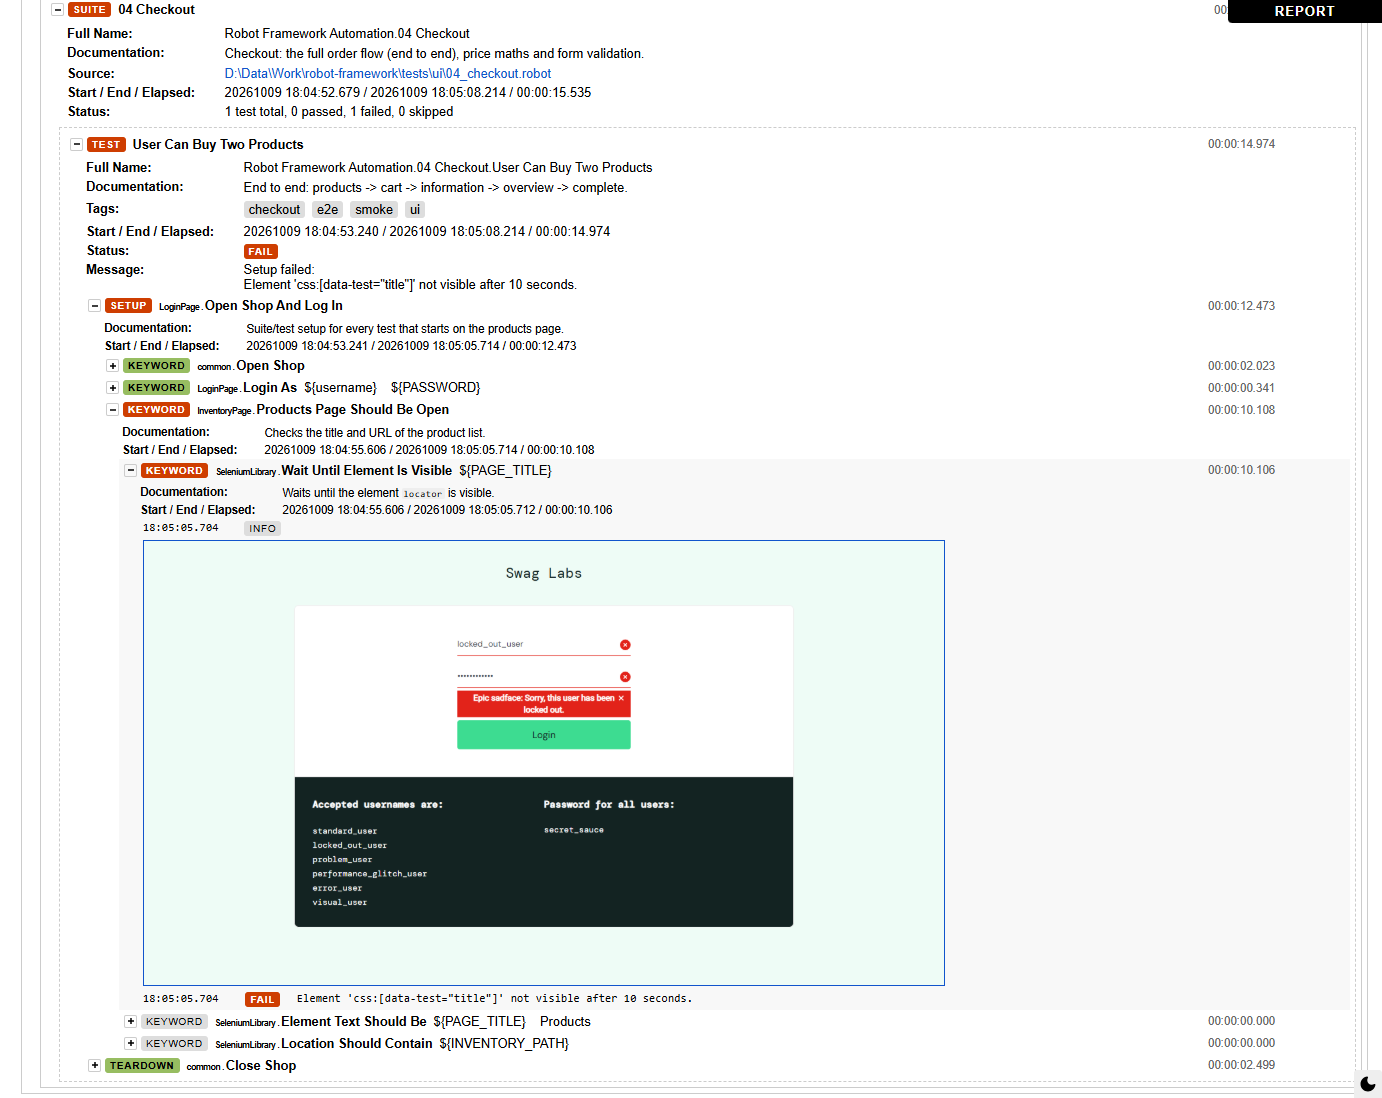
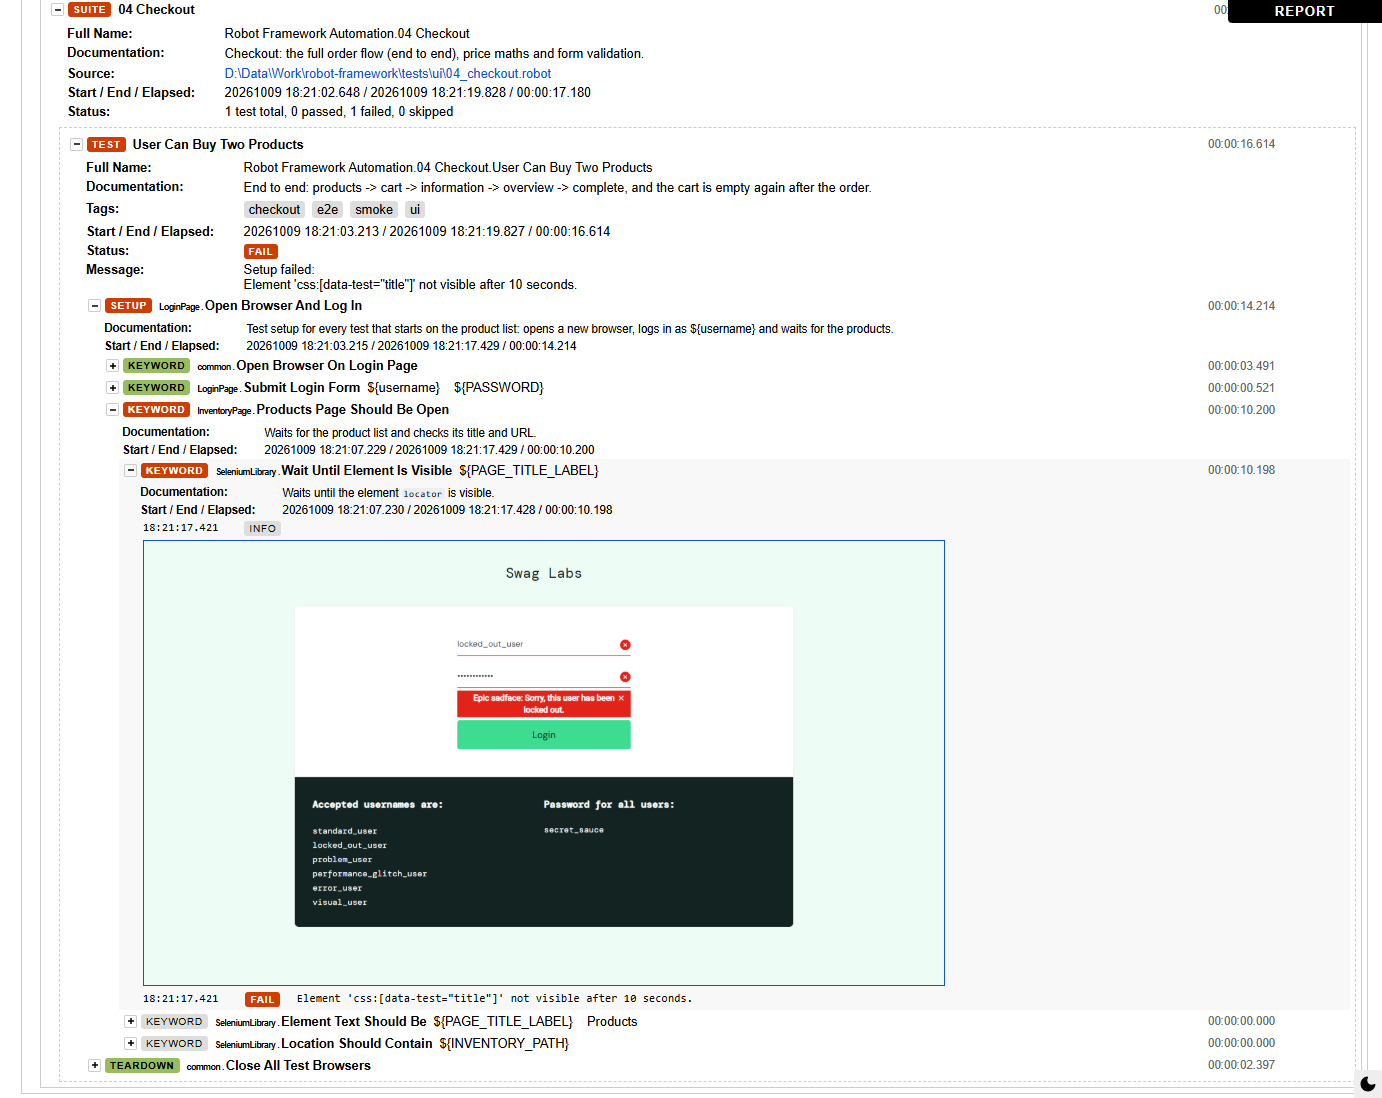
Re-capture the README log screenshots with the new keyword names
The log screenshots showed the old keyword names (Open Shop, Login As,
Go To Checkout, ...). New captures from a fresh 30/30 pabot run and the
same forced-failure run; README timing sentence updated to match.

diff --git a/README.md b/README.md
@@ -102,7 +102,7 @@ copied next to it (`--artifacts png --artifactsinsubfolders`). In CI they are in
 `results-<browser>` artifact of each run.
 
 **report.html**: totals, then statistics by tag and by suite. This is a full pabot run:
-30 tests, about 3 minutes of test time in 1 min 23 s of wall time.
+30 tests, about 2.5 minutes of test time finished in about 1 minute of wall time.
 
 ![Robot Framework report: 30 of 30 tests passed, statistics by tag and by suite](docs/images/report-overview.png)
 
